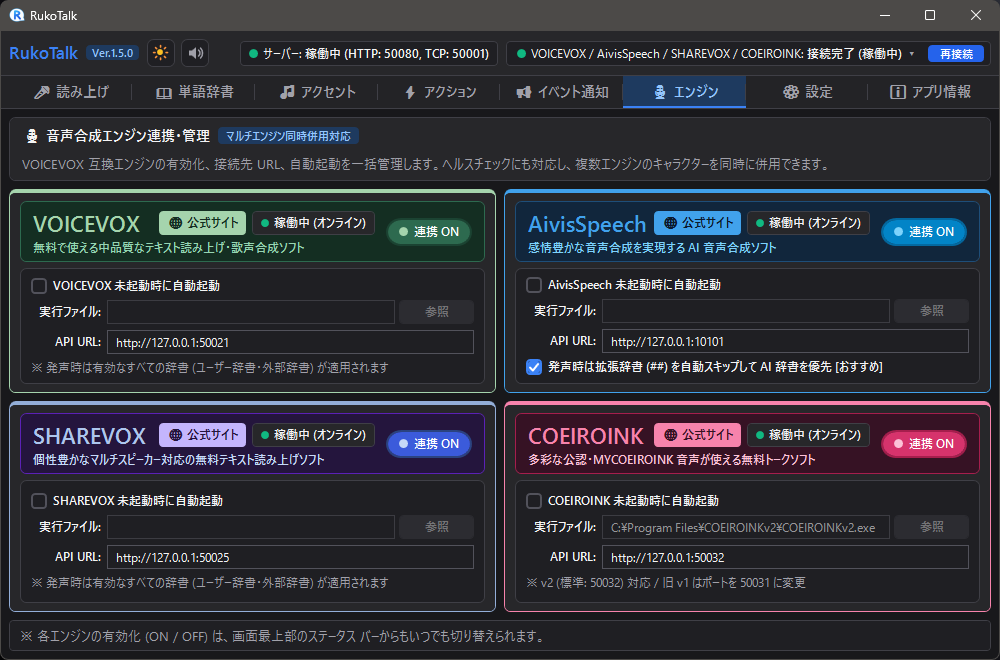
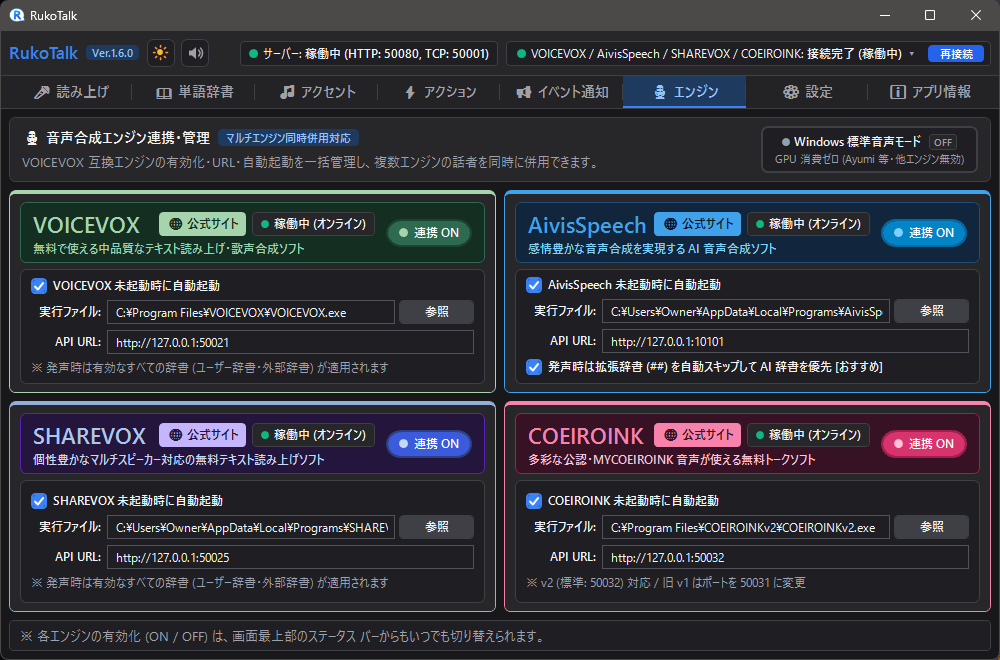
RukoTalk Ver.1.6.0

diff --git a/README.md b/README.md
@@ -8,7 +8,7 @@
 ※日本語化パッチ等は [Toy-Box レポジトリ](https://github.com/Rukoto/Toy-Box) および [Study-Room レポジトリ](https://github.com/Rukoto/Study-Room) を参照ください。
 
 ---
-## 「RukoTalk Ver.1.5.1」
+## 「RukoTalk Ver.1.6.0」
 「棒読みちゃん」の後継として設計された、現代の配信環境に最適化された Windows 向けテキスト読み上げ (TTS) アプリです。  
 棒読みちゃんと完全互換の HTTP / TCP 連携およびコンパニオン ブリッジ (BouyomiChan.exe) を備えており、「NCV」や「わんコメ」等の既存設定を変更することなくそのまま VOICEVOX や互換エンジンの高品質な音声合成へ移行できます。  
 秒間数十件の弾幕コメントが殺到しても UI が固まらない非同期パイプラインを採用し、「安定化 ＞ 軽量化」を最優先方針として開発されています。個人・法人問わず、収益化配信や商用動画制作でも完全無料でご利用いただけます。
@@ -16,9 +16,9 @@
 ![RukoTalk](RukoTalk.png)
 
 - **棒読みちゃん完全互換（設定変更ゼロで移行）**: HTTP (50080) / TCP (50001) 送信、NCV プロセス監視パス、(s150) 速度・(t120) 音程・(v80) 音量・(voice 2) 声質などの各種制御タグに対応
-- **4 大音声合成エンジンの「同時併用」に対応**: VOICEVOX、AivisSpeech、SHAREVOX、COEIROINK との直接通信・同時併用に対応。エンジン未起動時の自動起動（パス自動検出付き）や、AivisSpeech 発声時の文脈 AI 辞書（BERT）自動優先機能を搭載
+- **4 大音声合成エンジンの「同時併用」＋「Windows 標準音声モード」に対応**: VOICEVOX、AivisSpeech、SHAREVOX、COEIROINK との直接通信・同時併用に対応。エンジン未起動時の自動起動（パス自動検出付き）や、AivisSpeech 発声時の文脈 AI 辞書（BERT）自動優先機能に加え、GPU メモリ (VRAM) を消費せず単体動作する Windows 標準音声モードも搭載
 - **配信を止めずに「その場で」イントネーション＆辞書修正**: 動作ログの右クリックやクイック登録欄から、配信中でも即座に単語置換やアクセント核（拍数・語尾上げ）を試聴しながら登録・修正可能。テキスト変換パイプラインもリアルタイム可視化
-- **誤爆しない！充実の配信特化型辞書を標準同梱**: 基本辞書、日本語読み補正、英字固有名詞、英語略称、ゲームタイトル、麻雀用語辞書を標準収録。短い英字略称（AI, FPS, OBS 等）が英単語の途中で誤爆しない境界保護設計
+- **誤爆しない！充実の配信特化型辞書を標準同梱（9 辞書・17,000 語超）**: 基本辞書、日本語読み補正、英字固有名詞、英語略称、VTuber、アニメ マンガ、ゲーム キャラクター、ゲーム タイトル、麻雀用語の 9 辞書を標準収録。短い英字略称（AI, FPS, OBS 等）が英単語の途中で誤爆しない境界保護設計
 - **弾幕・混雑に強いスマート制御**: 長文カット、自動加速、古い未読の自動スキップ、AA（アスキーアート）・連投コメントの自動スキップ、匿名コメント優先スキップ、リスナーによる教育・忘却コマンド（配信者登録語句は保護）を搭載
 - **配信者向け便利機能**: 特定キーワードでの SE 再生・ボイス切替・全文置換（⚡ アクション）、ギフト・広告等の読み飛ばし保護（📢 イベント通知）、OBS 向け仮想オーディオ出力デバイス個別指定、読み上げミュート中の着信チャイム通知、キャラクター別の音量バランス補正に対応
 
